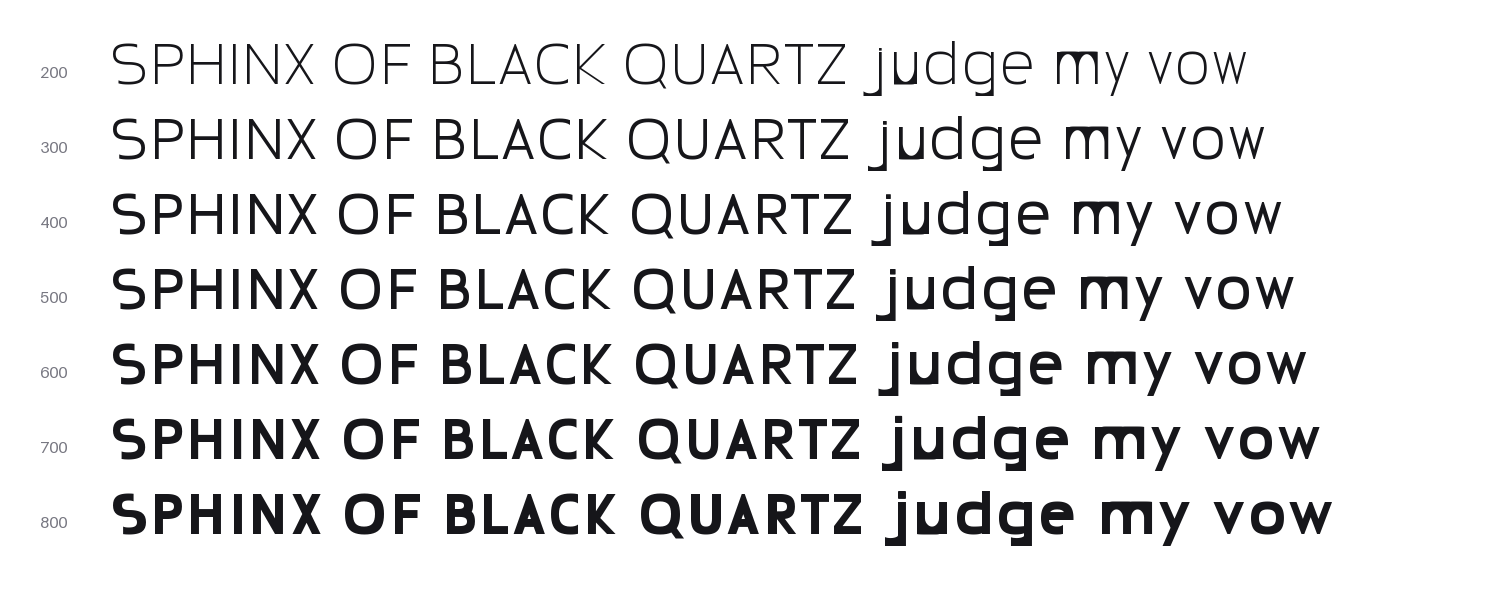
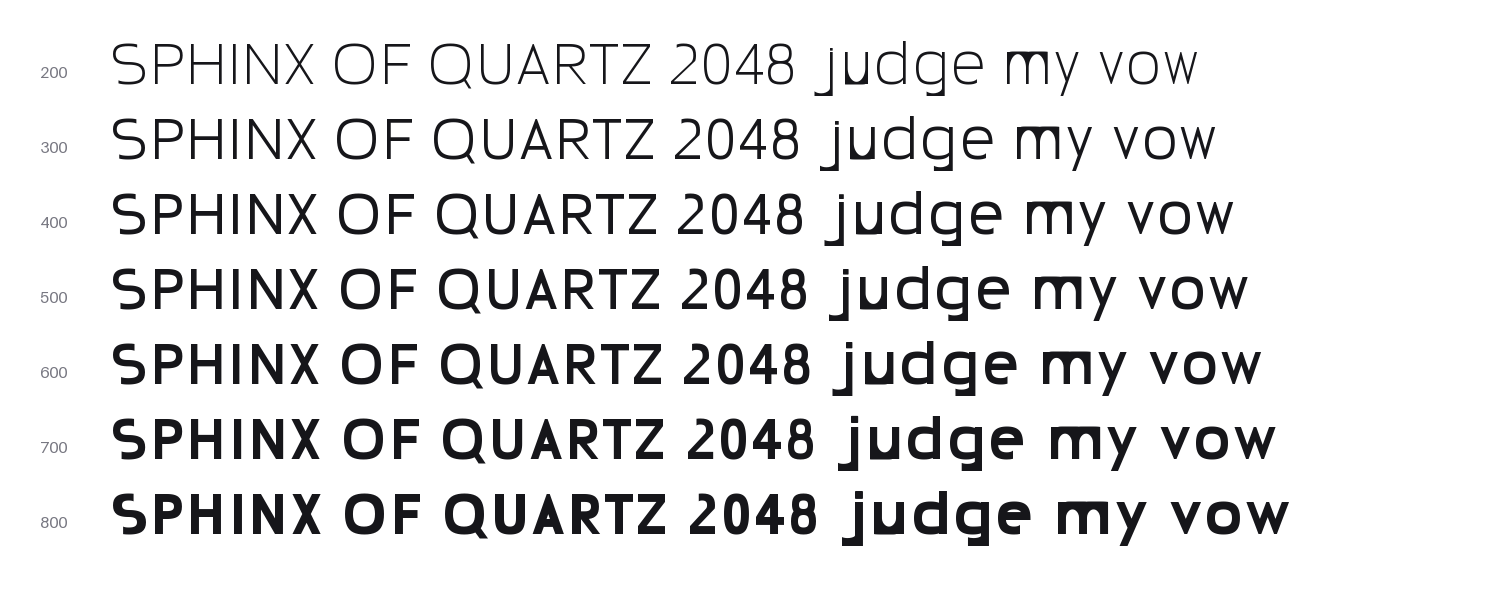
docs(examples): proof figures; tabular figures in first_font
first_font spaces figures optically, then makes them tabular; both proofs
set figures, and the example READMEs describe the 62-glyph set.

diff --git a/examples/first_font/build_font.py b/examples/first_font/build_font.py
@@ -2,8 +2,8 @@
 
 1. Brief / proportions   → DesignContext
 2. Control glyphs        → Controls (the n and o design records)
-3. Related forms         → Controls.build_all(): a–z from n / o, A–Z from H / O
-4. Spacing               → optical sidebearings per glyph
+3. Related forms         → Controls.build_all(): a–z from n / o; A–Z, 0–9 from H / O
+4. Spacing               → optical sidebearings per glyph; tabular figures
 5. Kerning               → class kerning fitted to the n/o rhythm
 6. Font                  → Font (names, cmap, metrics, zones, anchors, kerning)
 7. Build + proof         → OTF/TTF, then a proof rendered from the binary
@@ -24,6 +24,7 @@ from typekernel.parts import (
     KernClass,
     auto_class_kern,
     rhythm_from_control_glyphs,
+    tabular,
 )
 
 HERE = Path(__file__).resolve().parent
@@ -31,7 +32,7 @@ OUT_DIR = HERE / "out"
 DOCS_IMG = HERE.parents[1] / "docs" / "images"
 
 FAMILY = "Typekernel First"
-PROOF_TEXT = "The Quick Brown Fox Jumps Over The Lazy Dog"
+PROOF_TEXT = "The Quick Brown Fox 0123456789 Jumps Over The Lazy Dog"
 
 
 def design(controls: Controls, family: str = FAMILY) -> Font:
@@ -41,6 +42,7 @@ def design(controls: Controls, family: str = FAMILY) -> Font:
         ch: with_sidebearings(g, *suggest_sidebearings_optical(g, ctx))
         for ch, g in drawn.items()
     }
+    spaced.update(tabular({ch: g for ch, g in spaced.items() if ch.isdigit()}))
 
     classes = (
         KernClass("straight", ("n", "h", "m", "i", "l", "u")),

diff --git a/examples/variable_family/build_vf.py b/examples/variable_family/build_vf.py
@@ -28,7 +28,7 @@ OUT_DIR = HERE / "out"
 DOCS_IMG = HERE.parents[1] / "docs" / "images"
 
 FAMILY = "Typekernel Var"
-TEXT = "SPHINX OF BLACK QUARTZ judge my vow"
+TEXT = "SPHINX OF QUARTZ 2048 judge my vow"
 CLASSES = (
     KernClass("straight", ("n", "h", "m", "i", "l", "u")),
     KernClass("round", ("o",)),

diff --git a/examples/first_font/README.md b/examples/first_font/README.md
@@ -1,6 +1,6 @@
 # 示例：从比例到一个能安装的字体文件
 
-按设计师的顺序走一遍：比例 → 控制字 `n` / `o` → 派生 `h m r u i l`（来自 `n`）和 `b d p q`（来自 `o` 的碗 + `n` 的竖干）→ 光学侧距 → 类字偶 → `Font` → OTF / TTF → 用编译出的字体文件排校样。
+按设计师的顺序走一遍：比例 → 控制字 `n` / `o`（小写）和 `H` / `O`（大写、数字）→ 派生出 a–z、A–Z、0–9 共 62 个字形 → 光学侧距（数字再统一成等宽）→ 类字偶 → `Font` → OTF / TTF → 用编译出的字体文件排校样。
 
 校样第二行只改了控制表里的一处：`tuned_n(counter=…)`。`n` 家族的字一起变宽，`o` 家族不动。
 
@@ -25,7 +25,8 @@ python examples/first_font/build_font.py
 
 ## 用了哪些 API
 
-- `typekernel.parts.Controls` — 控制表：`DesignContext` + `n` / `o` 的设计记录；`tuned_n` / `tuned_o` 改一处，`build_all()` 整族重新派生
+- `typekernel.parts.Controls` — 控制表：`DesignContext` + `n` / `o` / `H` / `O` 的设计记录；`tuned_n` / `tuned_o` / `tuned_cap_h` / `tuned_cap_o` 改一处，`build_all()` 整族重新派生
+- `typekernel.parts.tabular` — 数字统一字宽、墨迹居中（等宽数字）
 - `typekernel.font.Font.from_context` — 字族信息、竖直度量、对齐区（blue zones）、`.notdef`、`space` 都从 `DesignContext` 来
 - `Font.add_chars` — `{字符: ComposedGlyph}`，自动取 AGL 字形名、映射码位、统一轮廓绕向，并带上控制字的锚点
 - `Font.add_class_kern_table` — 类字偶 → UFO `public.kern1/kern2` 组 → GPOS `kern`

diff --git a/examples/variable_family/README.md b/examples/variable_family/README.md
@@ -1,6 +1,6 @@
 # 示例：三个设计母版 → 一个可变字体
 
-字重不是描边加粗：Light / Regular / Bold 各自从一张控制表画出来。字重加大时竖干变粗，同时字怀让出空间（`tuned_n(counter=…)` 收窄 `n` 字怀，`tuned_o(rx=…)` 让碗略宽），这是设计师控制灰度和字宽的做法。可变字体在这些画好的母版之间插值。
+字重不是描边加粗：Light / Regular / Bold 各自从一张控制表画出来，每个母版都是完整的 62 个字形（a–z、A–Z、0–9）。字重加大时竖干变粗，同时字怀让出空间（`tuned_n(counter=…)` 收窄 `n` 字怀，`tuned_o(rx=…)` 让碗略宽），这是设计师控制灰度和字宽的做法。可变字体在这些画好的母版之间插值。
 
 ```bash
 pip install -e ".[dev,specimen,compile,boolean]"
@@ -20,6 +20,6 @@ python examples/variable_family/build_vf.py
 
 - `typekernel.font.Master` — 把一个 `Font` 放到轴上的位置（第一个是默认母版）
 - `typekernel.font.check_masters` — 编译前检查字形集、轮廓结构、组件、锚点、字偶组是否一致
-- `typekernel.compile.build_variable_font` — 写母版 UFO 和 designspace，编出 TTF / CFF2 可变字体
+- `typekernel.compile.build_variable_font` — 写母版 UFO 和 designspace，经 fontTools 严格插值检查（起点、轮廓顺序）后编出 TTF / CFF2 可变字体
 
 ![variable family proof](../../docs/images/variable-family-proof.png)
